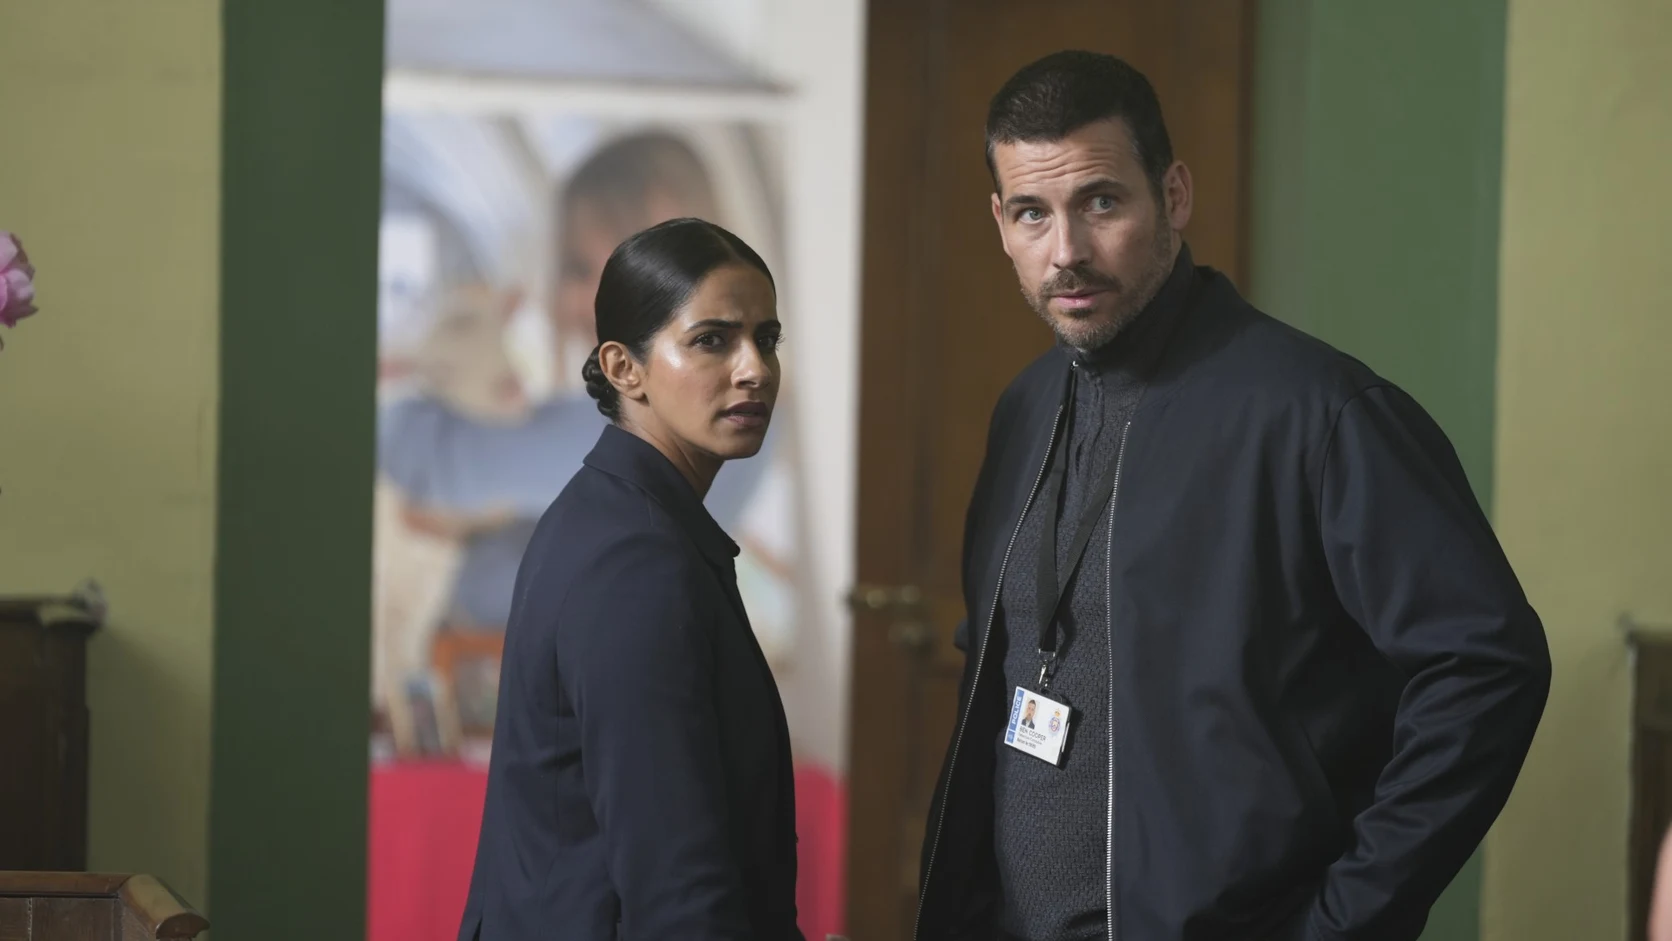
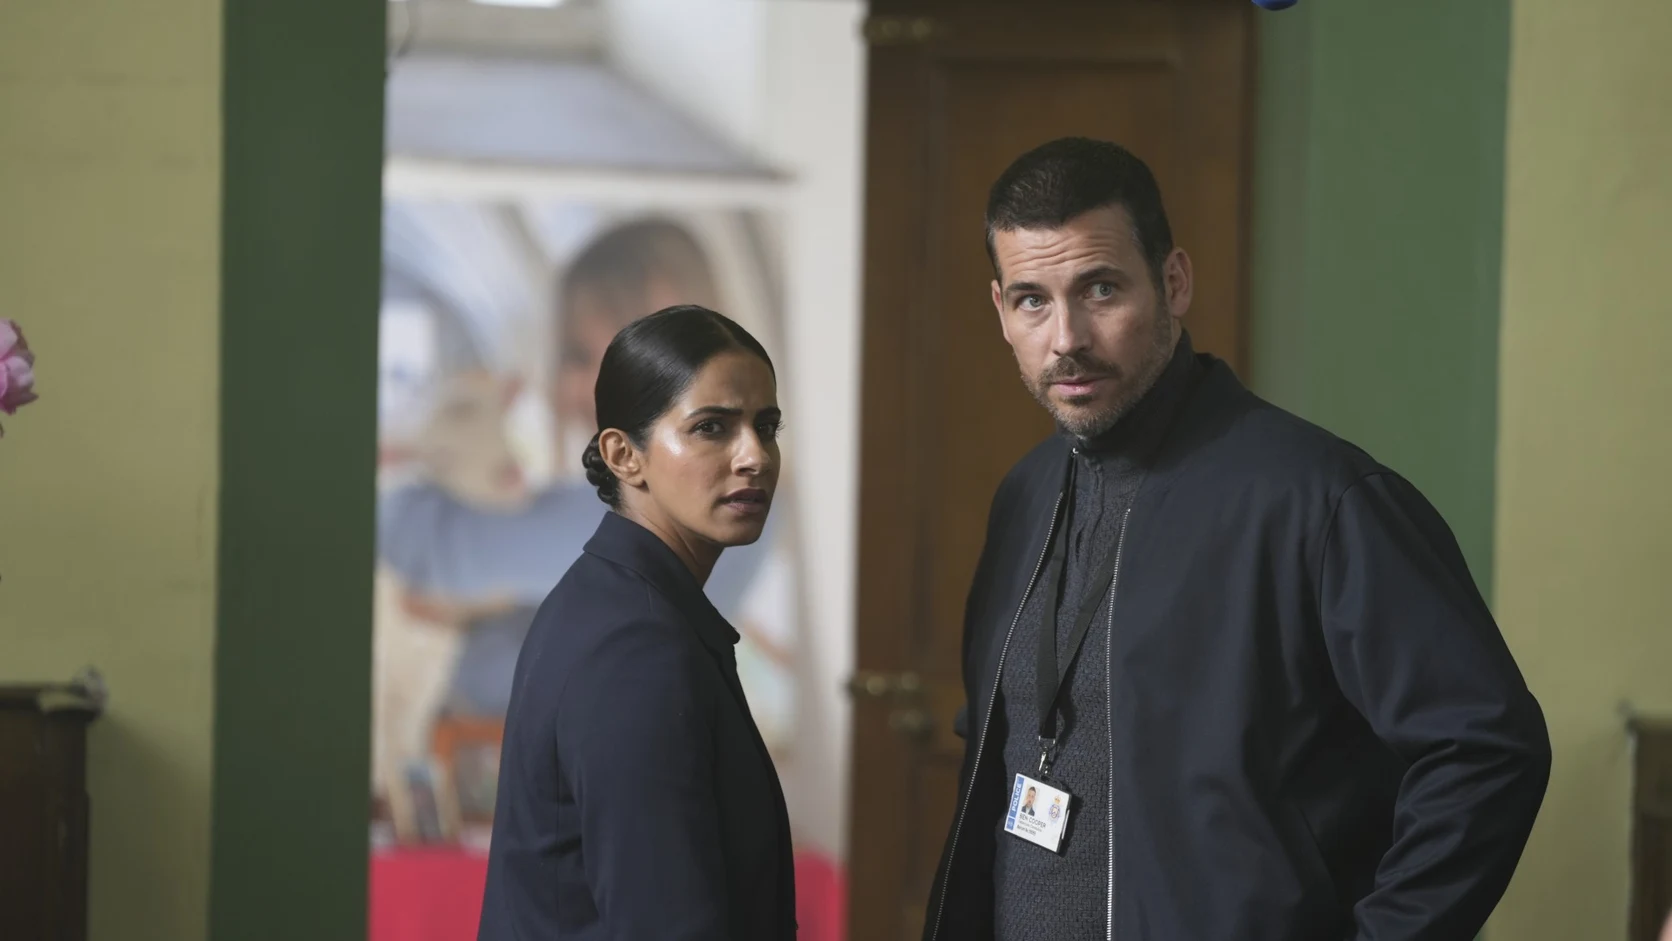
Fix cropped hero image on Cooper and Fry show page
The previous crop centered vertically on the source photo, leaving
almost no headroom above the actors. On wide desktop viewports the
hero banner's object-fit:cover crop was cutting into their heads.
Re-cropped top-anchored for more headroom, and biased the img's
object-position toward the top (20%) so wide/short containers don't
re-introduce the same clipping.

diff --git a/shows/cooper-and-fry.html b/shows/cooper-and-fry.html
@@ -439,7 +439,7 @@ document.addEventListener('click', function(e){
 </script>
 
 <div style="position:relative;overflow:hidden;min-height:400px;display:flex;align-items:center;border-bottom:1px solid rgba(201,168,76,0.15);background:#232a3d;">
-  <img src="/cooper-and-fry-hero.webp" alt="DC Diane Fry and DC Ben Cooper investigating a case in Cooper and Fry" style="position:absolute;right:0;top:0;width:100%;height:100%;object-fit:cover;object-position:center;filter:brightness(1.05);">
+  <img src="/cooper-and-fry-hero.webp" alt="DC Diane Fry and DC Ben Cooper investigating a case in Cooper and Fry" style="position:absolute;right:0;top:0;width:100%;height:100%;object-fit:cover;object-position:center 20%;filter:brightness(1.05);">
   <div style="position:absolute;inset:0;background:linear-gradient(to top,#1a2332 15%,rgba(26,35,50,0.55) 55%,rgba(26,35,50,0.1) 100%);"></div>
   <div style="position:relative;z-index:2;padding:56px 40px 40px;max-width:620px;">
     <p class="show-eyebrow" style="margin-bottom:10px;">British Crime Drama &middot; BritBox &middot; 2025&ndash; &middot; Season 1</p>
